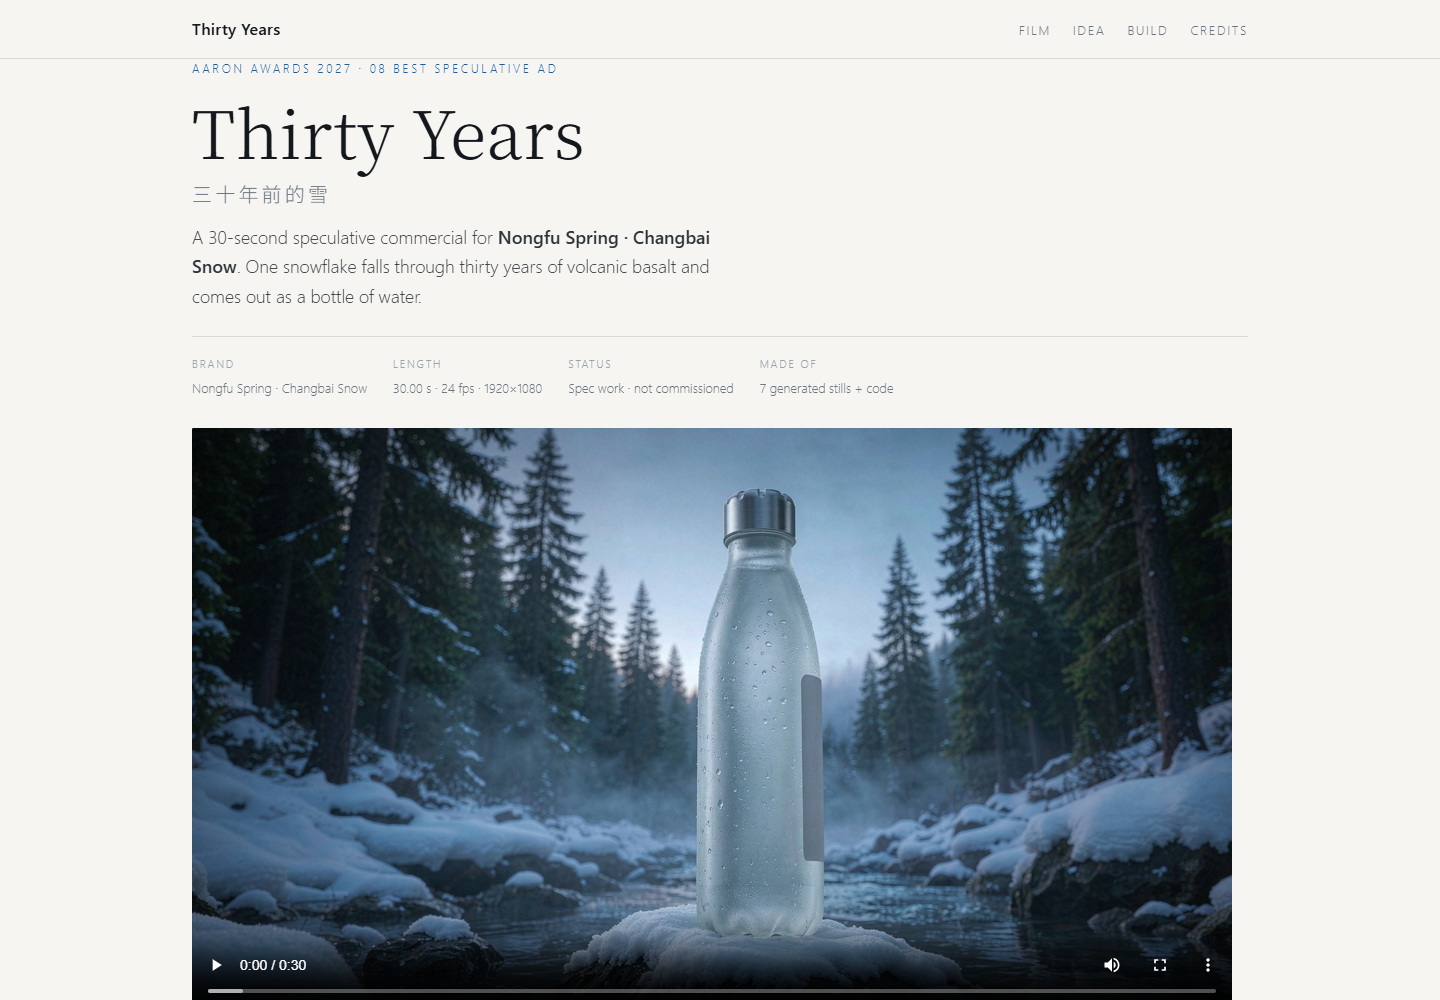
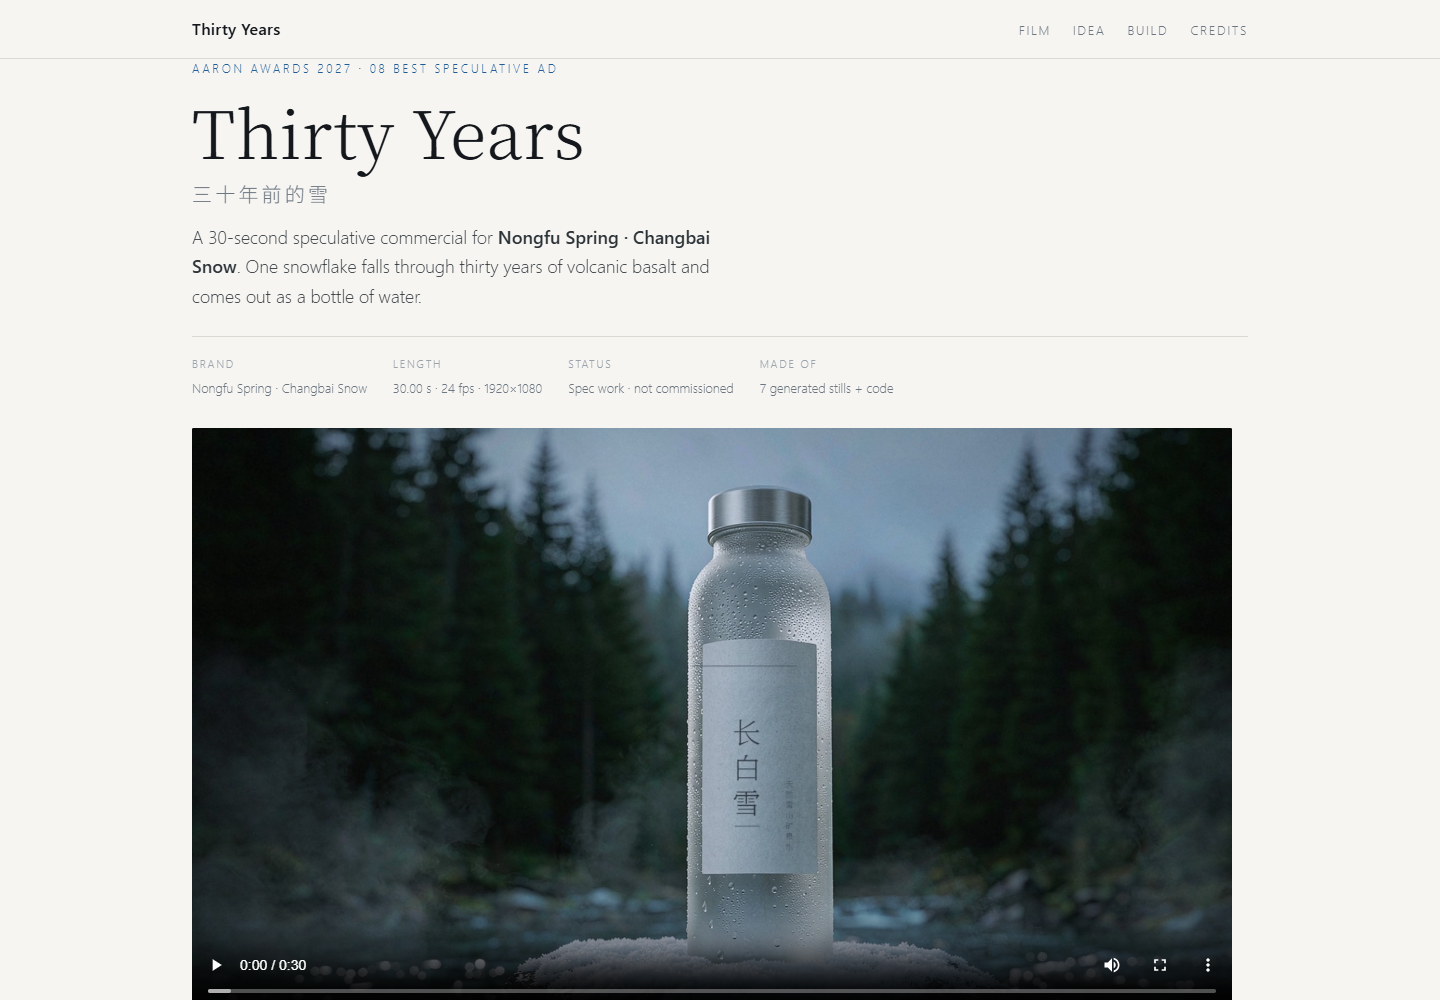
entry: note the typeset label and the final loudness

Changed region(s): [[0.125, 0.403, 0.875, 0.992], [0.5, 0.961, 0.5312, 0.992], [0.1562, 0.434, 0.1875, 0.465]]

diff --git a/submission/entry.md b/submission/entry.md
@@ -57,6 +57,9 @@ The film is built like software, because a 30-second ad has no room for a shot t
   Music would have made thirty years feel like thirty seconds.
 - **Typography as the only "graphic".** Source Han Serif, three lines, 34 px, 8 % from the
   left edge, 77.5 % down. The end card holds the brand line and the AI disclosure.
+- **The label is typeset, not generated.** Image models cannot set Chinese reliably, so the
+  pack shot is generated with a blank label and the build sets 「长白雪 / 天然雪山矿泉水」 on it
+  in code — same font file, same grid, same rebuild every time.
 - **25 assertions before a single frame was rendered.** Timeline adds to 30.000 s and 720
   frames; cuts are cuts; every super sits inside a 5 % safe area; the palette stays cold;
   no skin-tone region; every character exists in the bundled font; the same timestamp
@@ -66,7 +69,7 @@ The film is built like software, because a 30-second ad has no room for a shot t
 
 ## Results
 
-- 30.000 s, 1920×1080, 24 fps, H.264 + AAC, −14.1 LUFS, true peak −2.2 dBTP.
+- 30.000 s, 1920×1080, 24 fps, H.264 + AAC, −14.2 LUFS, true peak −2.2 dBTP.
 - 25 assertions green on the build machine and in a clean clone.
 - Blind read by three models from three different families, with the author hidden:
   all three named the product category (bottled water) and the closing line.
